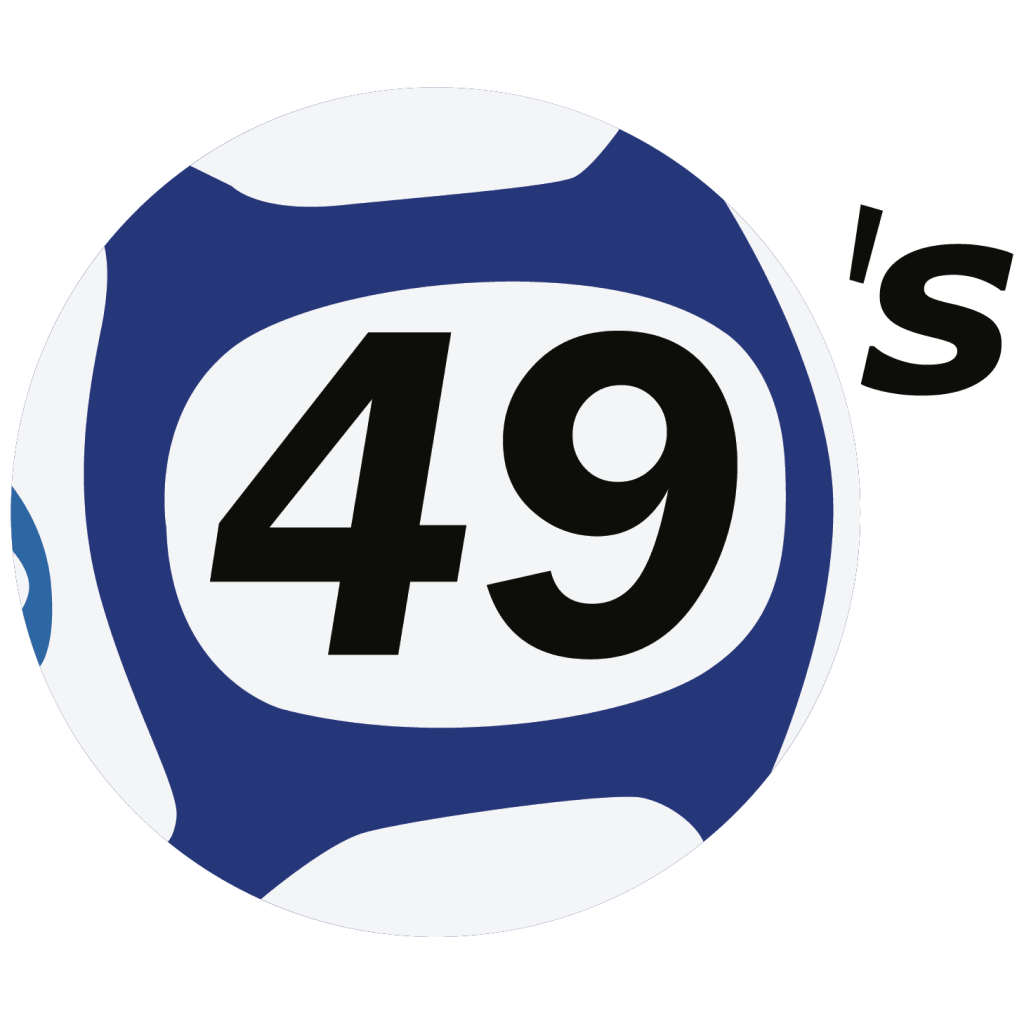
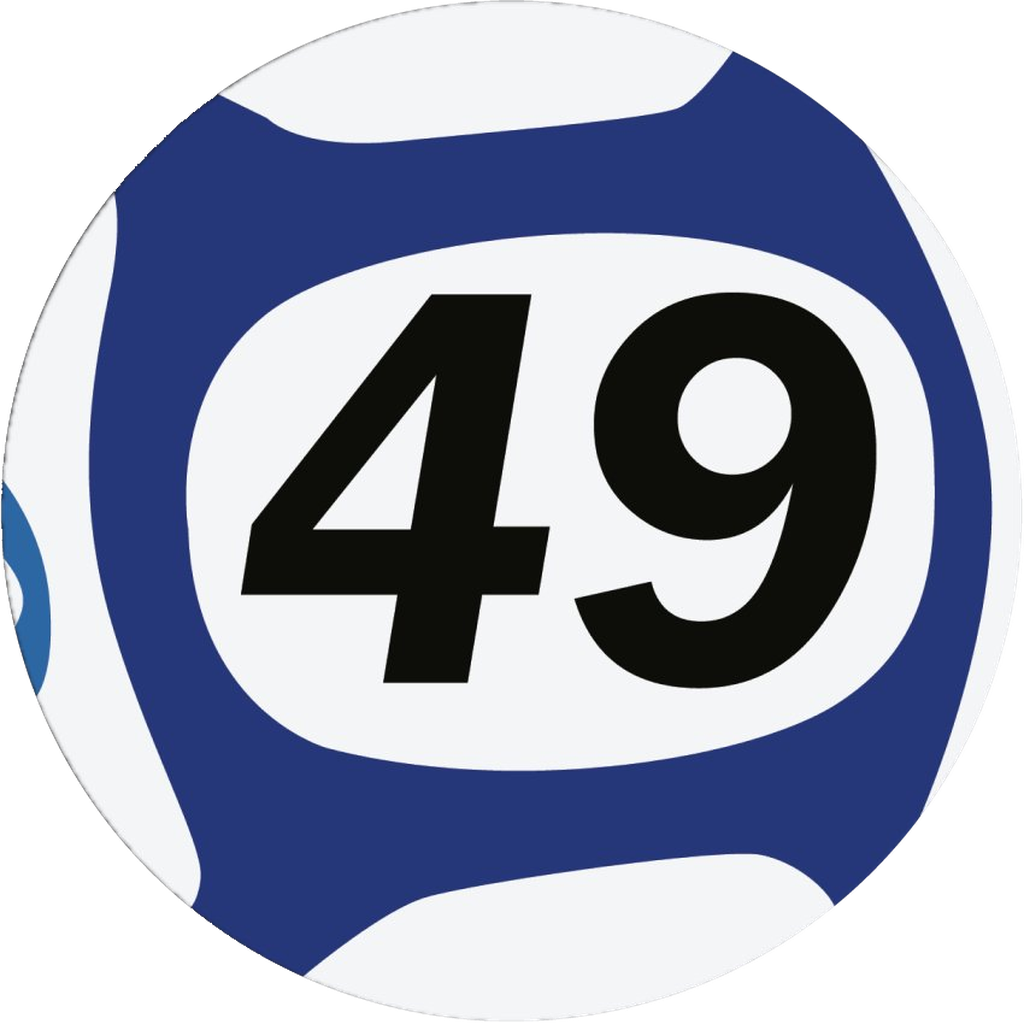
feat: update app structure and enhance draw functionality
- Renamed app to "UK 49's Results" and updated related configurations in app.json.
- Introduced new Draw and DrawCard components for displaying draw results.
- Refactored existing components to align with the new draw structure, including MainCard and SideBar.
- Updated utilities and mock data to support the new draw management system.
- Improved styling and layout for better user experience across various screens.
- Removed unused Android icon assets and added new logo images for branding consistency.

diff --git a/src/components/SideBar/SideBar.tsx b/src/components/SideBar/SideBar.tsx
@@ -1,14 +1,14 @@
-import { DrawerContentScrollView, type DrawerContentComponentProps } from '@react-navigation/drawer';
-import { CommonActions, DrawerActions, useTheme } from '@react-navigation/native';
-import React from 'react';
-import { Image, View } from 'react-native';
-import { dashboardInfo } from '../../mock/dashboard';
-import { DrawerItems } from '../Drawer';
-import { TextDefault } from '../Text';
-import { ThemeSwitcher } from '../ThemeSwitcher';
-import { useStyles } from './styles';
+import { DrawerContentScrollView, type DrawerContentComponentProps } from "@react-navigation/drawer";
+import { CommonActions, DrawerActions, useTheme } from "@react-navigation/native";
+import React from "react";
+import { Image, View } from "react-native";
+import { dashboardInfo } from "../../mock/dashboard";
+import { DrawerItems } from "../Drawer";
+import { TextDefault } from "../Text";
+import { ThemeSwitcher } from "../ThemeSwitcher";
+import { useStyles } from "./styles";
 
-const LOGO_SOURCE = require('../../../assets/images/icon.png');
+const LOGO_SOURCE = require("../../../assets/images/logo-image.png");
 
 interface MenuConfig {
   title: string;
@@ -16,15 +16,15 @@ interface MenuConfig {
   navigateTo: string;
 }
 
-const Home: MenuConfig = { title: 'Home', icon: 'home', navigateTo: 'index' };
+const Home: MenuConfig = { title: "Home", icon: "home", navigateTo: "index" };
 const TopMenus: MenuConfig[] = [
-  { title: 'Notifications', icon: 'bell', navigateTo: 'notification' },
-  { title: 'Hot & Cold', icon: 'snowflake', navigateTo: 'favourite' },
-  { title: 'Number Generator', icon: 'sync-alt', navigateTo: 'generator' },
+  { title: "Notifications", icon: "bell", navigateTo: "notification" },
+  { title: "Hot & Cold", icon: "snowflake", navigateTo: "favourite" },
+  { title: "Number Generator", icon: "sync-alt", navigateTo: "generator" },
 ];
 const BottomMenu: MenuConfig[] = [
-  { title: 'Terms & Conditions', icon: 'file-prescription', navigateTo: 'condition' },
-  { title: 'Privacy Policy', icon: 'file-signature', navigateTo: 'privacy' },
+  { title: "Terms & Conditions", icon: "file-prescription", navigateTo: "condition" },
+  { title: "Privacy Policy", icon: "file-signature", navigateTo: "privacy" },
 ];
 
 function SideBar(props: DrawerContentComponentProps) {
@@ -44,7 +44,7 @@ function SideBar(props: DrawerContentComponentProps) {
         <View style={styles.logoContainer}>
           <Image source={LOGO_SOURCE} style={styles.logo} resizeMode="contain" />
           <TextDefault style={styles.logoText} textColor={colors.fontWhite} H4 bold>
-            {"49's Results"}
+            {"UK 49's Results"}
           </TextDefault>
         </View>
         <View style={styles.menuContainer}>
@@ -60,18 +60,18 @@ function SideBar(props: DrawerContentComponentProps) {
             <View style={styles.line} />
             <View>
               <TextDefault style={styles.font} textColor={colors.fontWhite} H5>
-                {'Results'}
+                {"Results"}
               </TextDefault>
               <View style={styles.resultContainer}>
                 {dashboardInfo.map((entry) => (
                   <DrawerItems
                     key={entry.drawType._id}
-                    name={'lottery'}
+                    name={"draw"}
                     icon={entry.drawType.icon_name}
                     text={entry.drawType.name}
                     active={false}
                     onPress={() =>
-                      navigateAndClose('lottery', {
+                      navigateAndClose("draw", {
                         gameId: entry.game._id,
                         drawTypeId: entry.drawType._id,
                         name: entry.drawType.name,

diff --git a/src/screen/Draw/Draw.tsx b/src/screen/Draw/Draw.tsx
@@ -4,21 +4,21 @@ import React, { useCallback, useEffect, useMemo, useState } from "react";
 import { FlatList, Pressable, View } from "react-native";
 import { SafeAreaView } from "react-native-safe-area-context";
 import DatePickerField from "../../components/DatePickerField/DatePickerField";
-import LotteryCard from "../../components/LotteryCard/LotteryCard";
+import DrawCard from "../../components/DrawCard/DrawCard";
 import { TextDefault, TextError } from "../../components/Text";
 import { getDrawsForDrawType } from "../../mock/draws";
 import type { DrawWithContext } from "../../types";
 import { isSameDay, scale } from "../../utilities";
 import { useStyles } from "./styles";
 
-export interface LotteryProps {
+export interface DrawProps {
   gameId?: string | null;
   drawTypeId?: string | null;
 }
 
 const DEFAULT_LIMIT = 5;
 
-function Lottery({ drawTypeId }: LotteryProps) {
+function Draw({ drawTypeId }: DrawProps) {
   const { colors } = useTheme() as NavigationTheme;
   const styles = useStyles();
   const [selectedDate, setSelectedDate] = useState<Date | null>(null);
@@ -81,19 +81,19 @@ function Lottery({ drawTypeId }: LotteryProps) {
 
       {!isFiltering && (
         <>
-          <TextDefault textColor={colors.lotteryBox} H4 center style={styles.headerStyles}>
+          <TextDefault textColor={colors.brandAccent} H4 center style={styles.headerStyles}>
             {"Latest Result"}
           </TextDefault>
-          <LotteryCard {...latest} />
+          <DrawCard {...latest} />
           <View style={styles.separator} />
-          <TextDefault textColor={colors.lotteryBox} H4 center style={styles.headerStyles}>
+          <TextDefault textColor={colors.brandAccent} H4 center style={styles.headerStyles}>
             {"Previous Results"}
           </TextDefault>
         </>
       )}
 
       {isFiltering && (
-        <TextDefault textColor={colors.lotteryBox} H4 center style={styles.headerStyles}>
+        <TextDefault textColor={colors.brandAccent} H4 center style={styles.headerStyles}>
           {"Result"}
         </TextDefault>
       )}
@@ -120,10 +120,10 @@ function Lottery({ drawTypeId }: LotteryProps) {
         ListEmptyComponent={renderEmpty}
         ItemSeparatorComponent={() => <View style={styles.separator} />}
         contentContainerStyle={[styles.mainBackground, styles.mainContainer]}
-        renderItem={({ item }) => <LotteryCard {...item} />}
+        renderItem={({ item }) => <DrawCard {...item} />}
       />
     </SafeAreaView>
   );
 }
 
-export default React.memo(Lottery);
+export default React.memo(Draw);

diff --git a/src/components/Counter/Counter.tsx b/src/components/Counter/Counter.tsx
@@ -33,20 +33,20 @@ function Counter({ time }: Readonly<CounterProps>) {
         {timeLeft ? (
           <>
             <View style={styles.timerbox}>
-              <TextDefault textColor={colors.headerBackground} small>{'Days'}</TextDefault>
-              <TextDefault textColor={colors.white} center bold>{String(timeLeft.days)}</TextDefault>
+              <TextDefault textColor={colors.headerBackground} small numberOfLines={1}>{'Days'}</TextDefault>
+              <TextDefault textColor={colors.white} center bold numberOfLines={1}>{String(timeLeft.days)}</TextDefault>
             </View>
             <View style={styles.timerbox}>
-              <TextDefault textColor={colors.headerBackground} small>{'Hour'}</TextDefault>
-              <TextDefault textColor={colors.white} center bold>{String(timeLeft.hours)}</TextDefault>
+              <TextDefault textColor={colors.headerBackground} small numberOfLines={1}>{'Hour'}</TextDefault>
+              <TextDefault textColor={colors.white} center bold numberOfLines={1}>{String(timeLeft.hours)}</TextDefault>
             </View>
             <View style={styles.timerbox}>
-              <TextDefault textColor={colors.headerBackground} small>{'Min'}</TextDefault>
-              <TextDefault textColor={colors.white} center bold>{String(timeLeft.minutes)}</TextDefault>
+              <TextDefault textColor={colors.headerBackground} small numberOfLines={1}>{'Min'}</TextDefault>
+              <TextDefault textColor={colors.white} center bold numberOfLines={1}>{String(timeLeft.minutes)}</TextDefault>
             </View>
             <View style={styles.timerbox}>
-              <TextDefault textColor={colors.headerBackground} small>{'Sec'}</TextDefault>
-              <TextDefault textColor={colors.white} center bold>{String(timeLeft.seconds)}</TextDefault>
+              <TextDefault textColor={colors.headerBackground} small numberOfLines={1}>{'Sec'}</TextDefault>
+              <TextDefault textColor={colors.white} center bold numberOfLines={1}>{String(timeLeft.seconds)}</TextDefault>
             </View>
           </>
         ) : (

diff --git a/src/components/MainCard/MainCard.tsx b/src/components/MainCard/MainCard.tsx
@@ -26,7 +26,7 @@ function MainCard(props: Readonly<DashboardEntry>) {
   );
   const handleViewAll = useCallback(() => {
     router.push({
-      pathname: "/lottery",
+      pathname: "/draw",
       params: { gameId, drawTypeId, name: drawTypeName, from: "card" },
     });
   }, [router, gameId, drawTypeId, drawTypeName]);
@@ -38,7 +38,7 @@ function MainCard(props: Readonly<DashboardEntry>) {
   const draw = props.latestDraw;
   return (
     <View>
-      <View style={styles.lotteryBox}>
+      <View style={styles.drawBox}>
         <View style={styles.boxHeader}>
           <TextDefault textColor={colors.headerBackground} H3 bold center>
             {props.drawType.name}
@@ -47,9 +47,6 @@ function MainCard(props: Readonly<DashboardEntry>) {
         </View>
         <View style={styles.boxContainer}>
           <View style={styles.boxInfo}>
-            <TextDefault numberOfLines={1} textColor={colors.fontSecondColor} small>
-              {props.game.name}
-            </TextDefault>
             <TextDefault numberOfLines={1} textColor={colors.headerText} H5 bold style={alignment.MTxSmall}>
               {dateTransformation(draw ? draw.date : null, true)}
             </TextDefault>
@@ -59,7 +56,7 @@ function MainCard(props: Readonly<DashboardEntry>) {
                 {" (Europe/London)"}
               </TextDefault>
             </TextDefault>
-            <View style={styles.lotteryBalls}>
+            <View style={styles.ballRow}>
               {draw &&
                 (draw.pending ? (
                   <TextDefault textColor={colors.yellow} H4 bold>

diff --git a/src/components/DrawCard/DrawCard.tsx b/src/components/DrawCard/DrawCard.tsx
@@ -6,11 +6,11 @@ import { dateTransformation, getZone } from "../../utilities";
 import { TextDefault } from "../Text";
 import { useStyles } from "./styles";
 
-function LotteryCard(props: Readonly<DrawWithContext>) {
+function DrawCard(props: Readonly<DrawWithContext>) {
   const { colors } = useTheme() as NavigationTheme;
   const styles = useStyles();
   return (
-    <View style={styles.lotteryBox}>
+    <View style={styles.drawBox}>
       <View style={styles.boxContainer}>
         <TextDefault numberOfLines={1} textColor={colors.headerText} H5 bold>
           {dateTransformation(props.date ?? null, true)}
@@ -18,7 +18,7 @@ function LotteryCard(props: Readonly<DrawWithContext>) {
         <TextDefault small numberOfLines={1} textColor={colors.fontSecondColor}>
           {getZone(props.date ?? null)}
         </TextDefault>
-        <View style={styles.lotteryBalls}>
+        <View style={styles.ballRow}>
           {props.pending ? (
             <TextDefault textColor={colors.yellow} H4 bold>
               {"Result Pending"}
@@ -47,4 +47,4 @@ function LotteryCard(props: Readonly<DrawWithContext>) {
   );
 }
 
-export default React.memo(LotteryCard);
+export default React.memo(DrawCard);

diff --git a/src/screen/Generator/Generator.tsx b/src/screen/Generator/Generator.tsx
@@ -3,7 +3,7 @@ import React, { useCallback, useEffect, useMemo, useRef, useState } from "react"
 import { ActivityIndicator, Pressable, Switch, TouchableOpacity, View } from "react-native";
 import { SafeAreaView } from "react-native-safe-area-context";
 import { TextDefault } from "../../components/Text";
-import { randomBalls } from "../../utilities/lottery";
+import { randomBalls } from "../../utilities/draw";
 import { useStyles } from "./styles";
 
 type BallValue = number | "?";
@@ -237,7 +237,7 @@ function Generator() {
               </View>
             )}
 
-            <View style={styles.lotteryBalls}>
+            <View style={styles.ballRow}>
               {mainBalls.map((value, index) => (
                 <View style={styles.ballContainer} key={slotIds[index]}>
                   <TextDefault textColor={colors.headerBackground} bold H4 center>

diff --git a/app/draw.tsx b/app/draw.tsx
@@ -3,10 +3,10 @@ import { useTheme } from '@react-navigation/native';
 import { useLocalSearchParams, useNavigation, useRouter } from 'expo-router';
 import React, { useCallback, useLayoutEffect } from 'react';
 import { Pressable } from 'react-native';
-import Lottery from '../src/screen/Lottery/Lottery';
+import Draw from '../src/screen/Draw/Draw';
 import { scale } from '../src/utilities';
 
-export default function LotteryRoute() {
+export default function DrawRoute() {
   const params = useLocalSearchParams<{
     name?: string;
     gameId?: string;
@@ -44,5 +44,5 @@ export default function LotteryRoute() {
     });
   }, [navigation, params.name, handleBack, colors.headerText, showBack]);
 
-  return <Lottery gameId={params.gameId} drawTypeId={params.drawTypeId} />;
+  return <Draw gameId={params.gameId} drawTypeId={params.drawTypeId} />;
 }

diff --git a/src/components/MainCard/styles.ts b/src/components/MainCard/styles.ts
@@ -11,7 +11,7 @@ export const useStyles = () => {
         font: {
           ...alignment.PxSmall,
         },
-        lotteryBox: {
+        drawBox: {
           backgroundColor: 'transparent',
           width: '100%',
           ...alignment.PBsmall,
@@ -43,12 +43,12 @@ export const useStyles = () => {
         boxInfo: {
           width: '100%',
           alignItems: 'center',
-          ...alignment.MTlarge,
-          ...alignment.PTlarge,
+          ...alignment.MTmedium,
+          ...alignment.PTmedium,
           ...alignment.PLxSmall,
           ...alignment.PRxSmall,
         },
-        lotteryBalls: {
+        ballRow: {
           width: '100%',
           backgroundColor: 'transparent',
           flexDirection: 'row',

diff --git a/src/utilities/draw.ts b/src/utilities/draw.ts
@@ -1,6 +1,6 @@
-export const LOTTERY_MAX = 49;
+export const MAX_BALL = 49;
 
-export function randomBalls(count: number, max: number = LOTTERY_MAX): number[] {
+export function randomBalls(count: number, max: number = MAX_BALL): number[] {
   const set = new Set<number>();
   while (set.size < count) {
     set.add(Math.floor(Math.random() * max) + 1);
@@ -8,7 +8,7 @@ export function randomBalls(count: number, max: number = LOTTERY_MAX): number[] 
   return [...set].sort((a, b) => a - b);
 }
 
-export function randomBoosterBall(exclude: number[], max: number = LOTTERY_MAX): number {
+export function randomBoosterBall(exclude: number[], max: number = MAX_BALL): number {
   const taken = new Set(exclude);
   let n: number;
   do {

diff --git a/app/_layout.tsx b/app/_layout.tsx
@@ -28,8 +28,8 @@ function ThemedDrawer() {
           drawerLabelStyle: { color: theme.colors.fontWhite },
         }}
       >
-        <Drawer.Screen name="index" options={{ title: "Lottery" }} />
-        <Drawer.Screen name="lottery" options={{ drawerItemStyle: { display: "none" } }} />
+        <Drawer.Screen name="index" options={{ title: "Results" }} />
+        <Drawer.Screen name="draw" options={{ drawerItemStyle: { display: "none" } }} />
         <Drawer.Screen name="notification" options={{ title: "Notifications" }} />
         <Drawer.Screen name="favourite" options={{ title: "Hot & Cold" }} />
         <Drawer.Screen name="generator" options={{ title: "Number Generator" }} />

diff --git a/src/theme/color-theme.ts b/src/theme/color-theme.ts
@@ -26,7 +26,6 @@ const AppThemeDefinition = {
       drawerHeader: COLORS.whiteAlpha90,
       sidebarDivider: COLORS.whiteAlpha20,
       brandAccent: COLORS.deepIndigo,
-      lotteryBox: COLORS.deepIndigo,
       switchBackground: COLORS.switchBgLight,
       boxShadow: COLORS.shadowGrey,
       spinnerColor: COLORS.deepIndigo,
@@ -65,7 +64,6 @@ const AppThemeDefinition = {
       drawerHeader: COLORS.blackAlpha60,
       sidebarDivider: COLORS.whiteAlpha15,
       brandAccent: COLORS.softViolet,
-      lotteryBox: COLORS.softViolet,
       switchBackground: COLORS.switchBgDark,
       boxShadow: COLORS.shadowBlack,
       spinnerColor: COLORS.softViolet,

diff --git a/src/components/Counter/styles.ts b/src/components/Counter/styles.ts
@@ -32,13 +32,13 @@ export const useStyles = () => {
           ...alignment.PxSmall,
         },
         timerbox: {
-          height: scale(35),
-          width: scale(35),
+          minWidth: scale(40),
+          marginHorizontal: scale(2),
+          paddingHorizontal: scale(4),
+          paddingVertical: scale(4),
           borderRadius: scale(3),
-          paddingHorizontal: scale(3),
-          paddingVertical: scale(3),
           alignItems: 'center',
-          justifyContent: 'space-between',
+          justifyContent: 'center',
           backgroundColor: colors.drawerTitleColor,
         },
       }),
